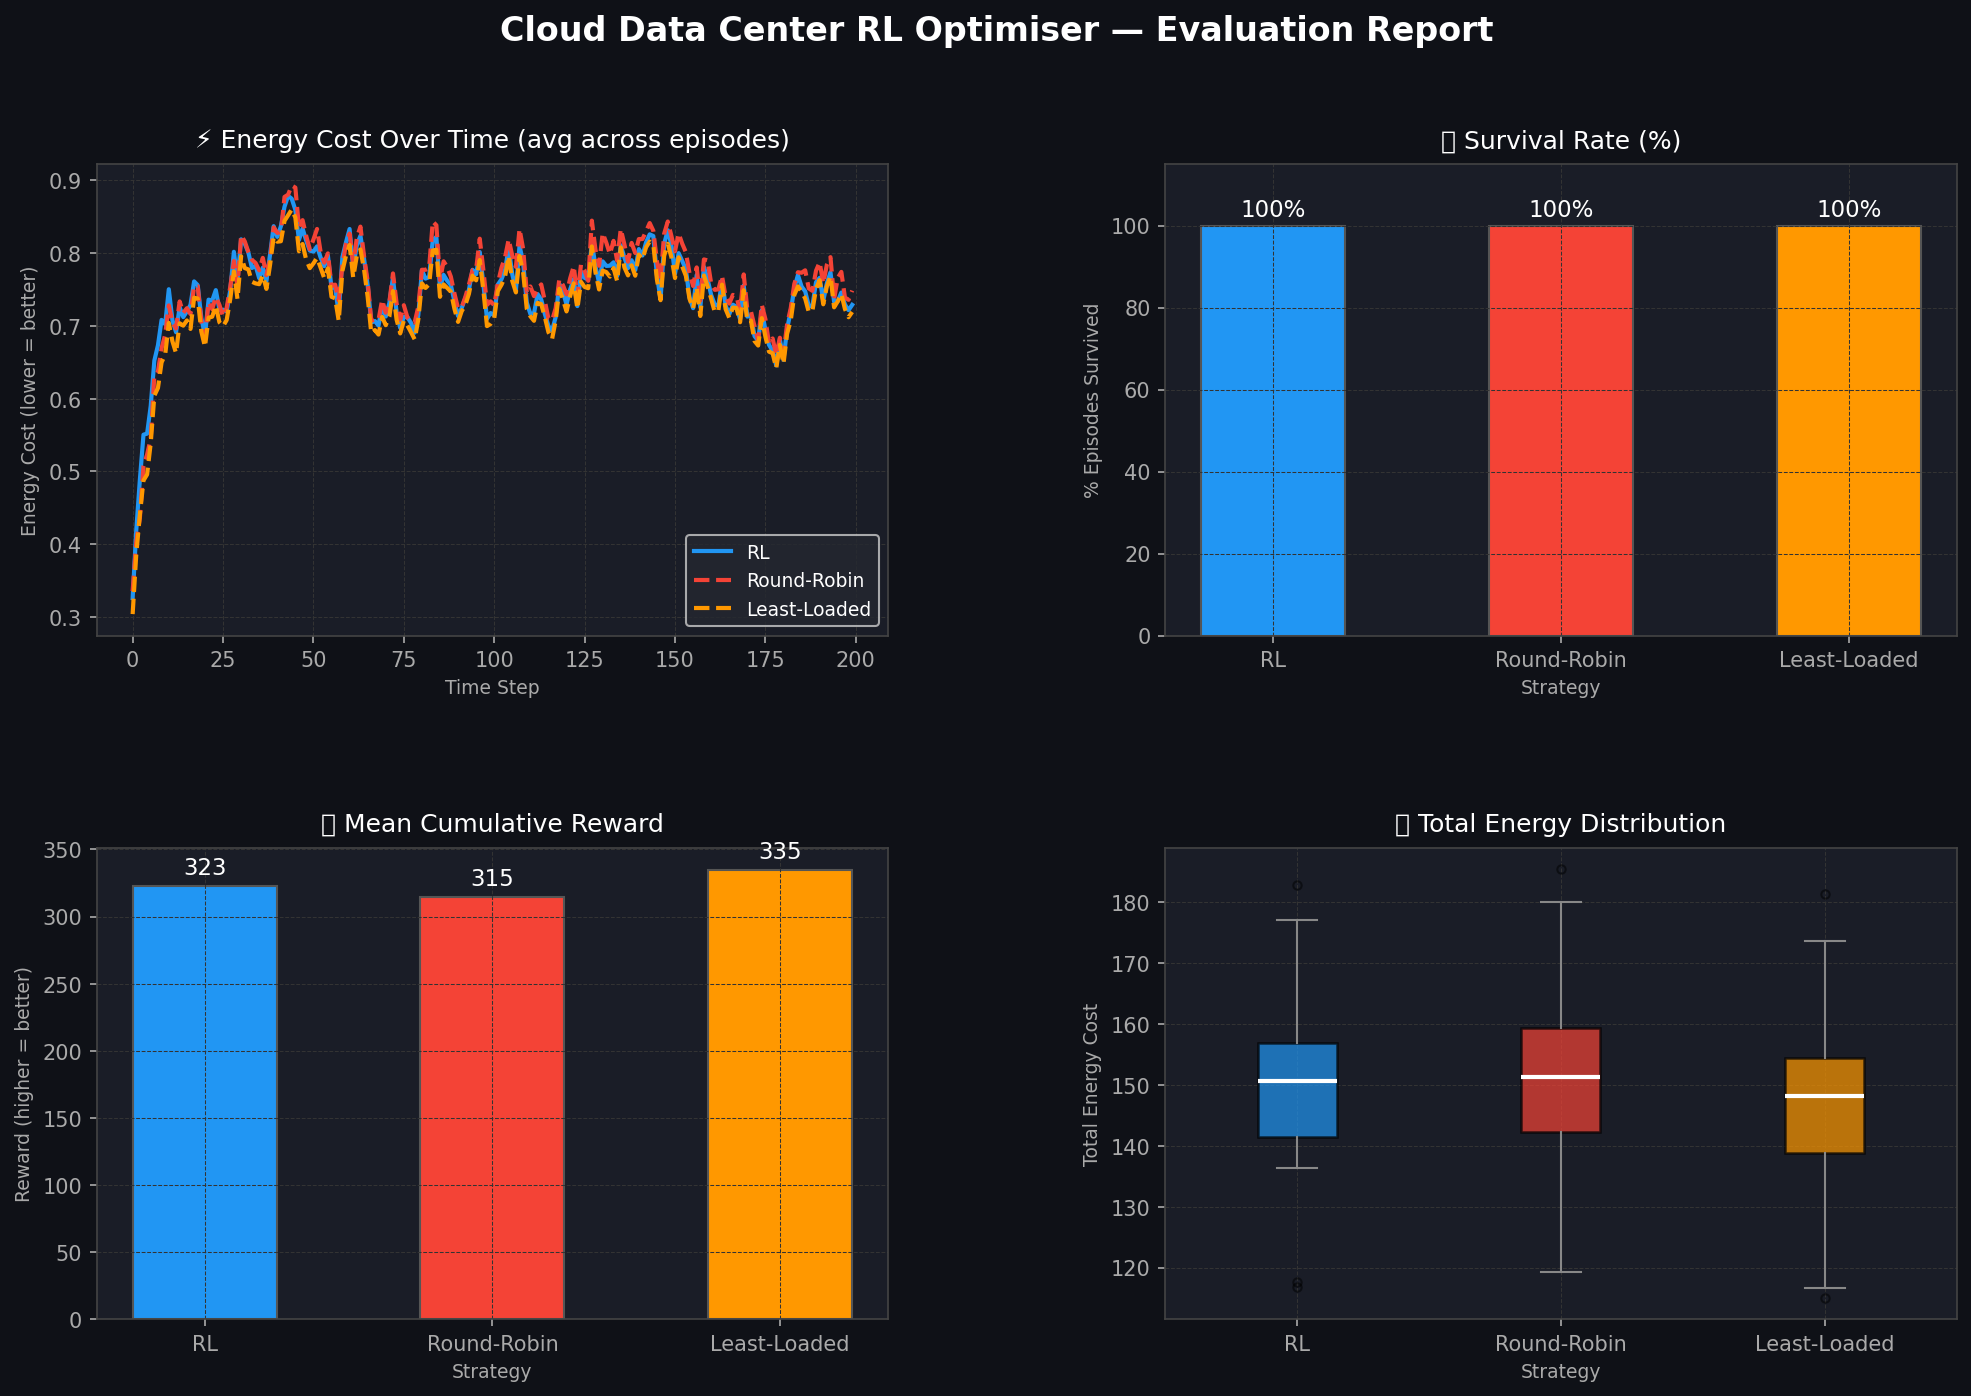
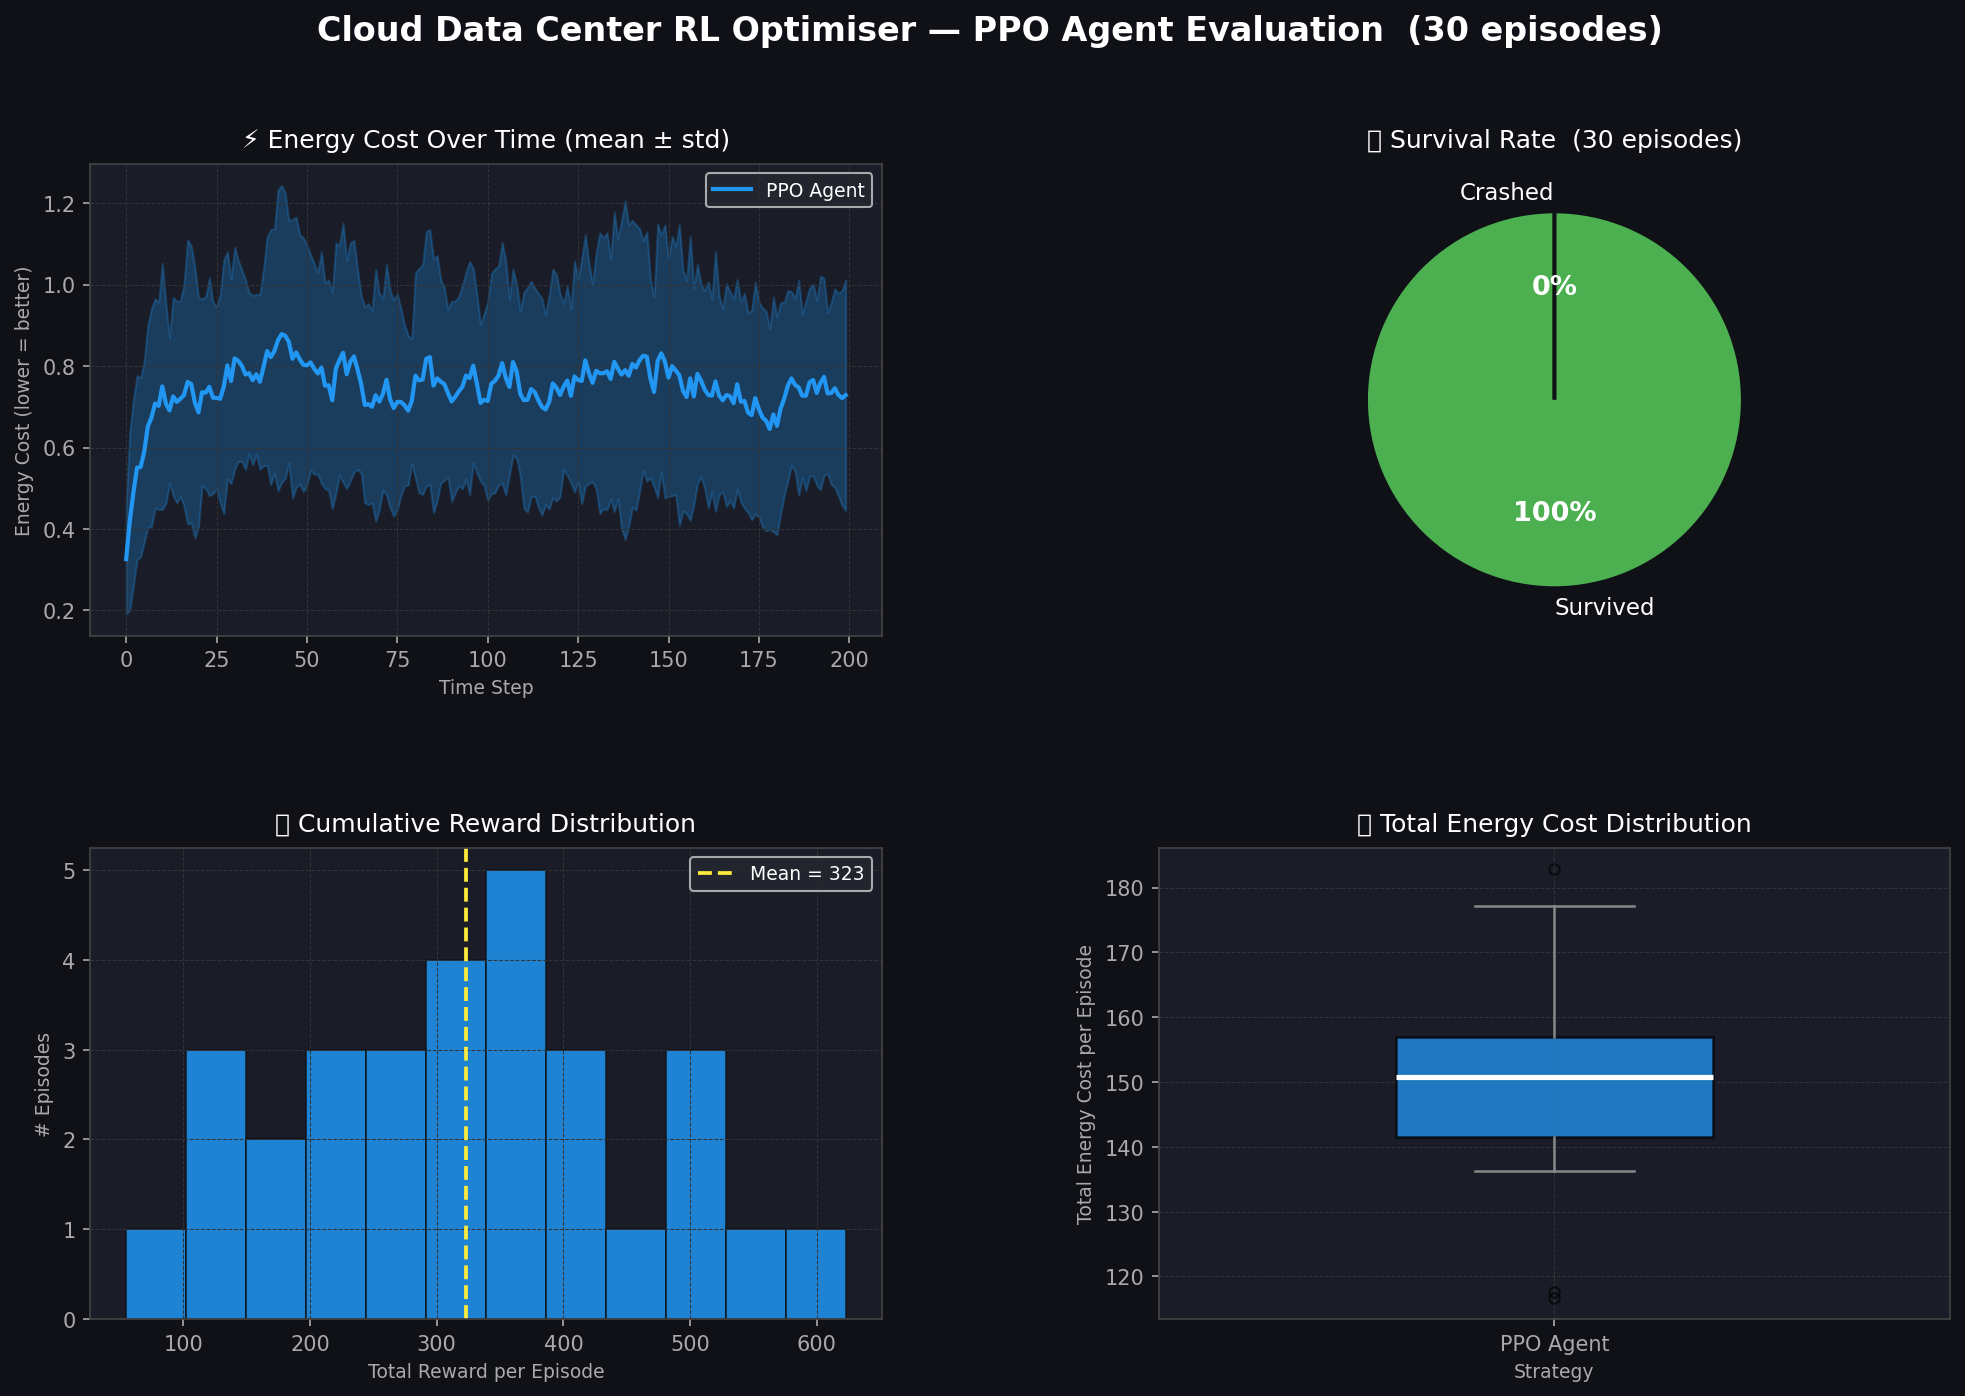
Updated Metrics

diff --git a/evaluate.py b/evaluate.py
@@ -26,31 +26,14 @@ except FileNotFoundError:
 env = CloudDataCenterEnv(max_steps=MAX_STEPS)
 
 
-
-def round_robin_action(step: int, **_) -> int:
-    return step % 3
-
-
-def least_loaded_action(obs: np.ndarray, **_) -> int:
-    cpu_loads = obs[:3]
-    return int(np.argmin(cpu_loads))
-
-
-
-def run_episode(strategy: str, seed: int):
+def run_episode(seed: int):
     obs, _ = env.reset(seed=seed)
-    total_reward  = 0.0
-    energy_log    = []
-    survived      = True
+    total_reward = 0.0
+    energy_log   = []
+    survived     = True
 
     for step in range(MAX_STEPS):
-        if strategy == "RL":
-            action, _ = model.predict(obs, deterministic=True)
-        elif strategy == "Round-Robin":
-            action = round_robin_action(step=step)
-        else:  # Least-Loaded
-            action = least_loaded_action(obs=obs)
-
+        action, _ = model.predict(obs, deterministic=True)
         obs, reward, terminated, truncated, info = env.step(int(action))
         total_reward += reward
         energy_log.append(info["energy_cost"])
@@ -62,82 +45,64 @@ def run_episode(strategy: str, seed: int):
             break
 
     return {
-        "survived":      survived,
-        "total_reward":  total_reward,
-        "energy_log":    energy_log,
-        "final_queue":   info["queue"],
-        "total_energy":  sum(energy_log),
+        "survived":     survived,
+        "total_reward": total_reward,
+        "energy_log":   energy_log,
+        "final_queue":  info["queue"],
+        "total_energy": sum(energy_log),
     }
 
 
+print(f"\nRunning {N_EPISODES} evaluation episodes …\n")
+episodes = [run_episode(seed=s) for s in range(N_EPISODES)]
 
-strategies = ["RL", "Round-Robin", "Least-Loaded"]
-results    = {s: [] for s in strategies}
+survival_rate = np.mean([e["survived"]     for e in episodes]) * 100
+mean_reward   = np.mean([e["total_reward"] for e in episodes])
+mean_energy   = np.mean([e["total_energy"] for e in episodes])
+mean_queue    = np.mean([e["final_queue"]  for e in episodes])
 
-print(f"\nRunning {N_EPISODES} evaluation episodes per strategy …\n")
-for seed in range(N_EPISODES):
-    for s in strategies:
-        results[s].append(run_episode(s, seed=seed))
-
-
-def stats(strategy):
-    eps = results[strategy]
-    return {
-        "survival_rate":  np.mean([e["survived"]     for e in eps]) * 100,
-        "mean_reward":    np.mean([e["total_reward"]  for e in eps]),
-        "mean_energy":    np.mean([e["total_energy"]  for e in eps]),
-        "mean_queue":     np.mean([e["final_queue"]   for e in eps]),
-    }
-
-summary = {s: stats(s) for s in strategies}
-
-col_w = 16
-header = f"{'Strategy':<{col_w}}{'Survival %':>12}{'Mean Reward':>14}{'Mean Energy':>14}{'Mean Queue':>12}"
-divider = "─" * len(header)
+col_w = 18
+header  = f"{'Metric':<{col_w}}{'Value':>14}"
+divider = "─" * (col_w + 14)
 print(divider)
 print(header)
 print(divider)
-for s in strategies:
-    st = summary[s]
-    print(
-        f"{s:<{col_w}}"
-        f"{st['survival_rate']:>11.1f}%"
-        f"{st['mean_reward']:>14.1f}"
-        f"{st['mean_energy']:>14.2f}"
-        f"{st['mean_queue']:>12.1f}"
-    )
+print(f"{'Survival Rate':<{col_w}}{survival_rate:>13.1f}%")
+print(f"{'Mean Reward':<{col_w}}{mean_reward:>14.1f}")
+print(f"{'Mean Total Energy':<{col_w}}{mean_energy:>14.2f}")
+print(f"{'Mean Final Queue':<{col_w}}{mean_queue:>14.1f}")
 print(divider)
 
-rl, rr = summary["RL"], summary["Round-Robin"]
-print(f"\nRL vs Round-Robin:")
-print(f"  Energy reduction : {(rr['mean_energy'] - rl['mean_energy']) / rr['mean_energy'] * 100:+.1f}%")
-print(f"  Reward gain      : {(rl['mean_reward']  - rr['mean_reward'])  / abs(rr['mean_reward']) * 100:+.1f}%")
-print(f"  Survival delta   : {rl['survival_rate'] - rr['survival_rate']:+.1f} pp")
 
-
-def mean_trace(strategy):
-    """Average per-step energy across all episodes (pad shorter epis with last value)."""
-    logs = [e["energy_log"] for e in results[strategy]]
+def mean_trace_with_std():
+    """Per-step mean ± std energy, padded to the same length."""
+    logs    = [e["energy_log"] for e in episodes]
     max_len = max(len(l) for l in logs)
-    padded  = [l + [l[-1]] * (max_len - len(l)) for l in logs]
-    return np.mean(padded, axis=0)
-
-traces = {s: mean_trace(s) for s in strategies}
+    padded  = np.array([l + [l[-1]] * (max_len - len(l)) for l in logs])
+    return padded.mean(axis=0), padded.std(axis=0)
 
 
-COLORS = {"RL": "#2196F3", "Round-Robin": "#F44336", "Least-Loaded": "#FF9800"}
+mean_e, std_e   = mean_trace_with_std()
+rewards_per_ep  = [e["total_reward"] for e in episodes]
+energies_per_ep = [e["total_energy"] for e in episodes]
+survived_count  = int(sum(e["survived"] for e in episodes))
+crashed_count   = N_EPISODES - survived_count
+
+RL_COLOR = "#2196F3"
+RL_FILL  = "#2196F344"
 
 fig = plt.figure(figsize=(16, 10), facecolor="#0f1117")
 fig.suptitle(
-    "Cloud Data Center RL Optimiser — Evaluation Report",
+    "Cloud Data Center RL Optimiser — PPO Agent Evaluation  (30 episodes)",
     fontsize=16, fontweight="bold", color="white", y=0.98,
 )
-gs = gridspec.GridSpec(2, 2, figure=fig, hspace=0.45, wspace=0.35)
+gs   = gridspec.GridSpec(2, 2, figure=fig, hspace=0.45, wspace=0.35)
 axes = [fig.add_subplot(gs[r, c]) for r in range(2) for c in range(2)]
+
 
 def style_ax(ax, title, xlabel, ylabel):
     ax.set_facecolor("#1a1d27")
-    ax.set_title(title,  color="white", fontsize=12, pad=8)
+    ax.set_title(title,  color="white",   fontsize=12, pad=8)
     ax.set_xlabel(xlabel, color="#aaaaaa", fontsize=9)
     ax.set_ylabel(ylabel, color="#aaaaaa", fontsize=9)
     ax.tick_params(colors="#aaaaaa")
@@ -145,50 +110,65 @@ def style_ax(ax, title, xlabel, ylabel):
         spine.set_color("#444444")
     ax.grid(True, color="#333333", linewidth=0.5, linestyle="--")
 
+
+# ── Panel 1: Energy cost over time ──────────────────────────────────────────
 ax = axes[0]
-for s in strategies:
-    ax.plot(traces[s], label=s, color=COLORS[s], linewidth=2,
-            linestyle="-" if s == "RL" else "--")
-style_ax(ax, "⚡ Energy Cost Over Time (avg across episodes)",
+x  = np.arange(len(mean_e))
+ax.plot(x, mean_e, color=RL_COLOR, linewidth=2, label="PPO Agent")
+ax.fill_between(x, mean_e - std_e, mean_e + std_e, color=RL_FILL)
+style_ax(ax, "⚡ Energy Cost Over Time (mean ± std)",
          "Time Step", "Energy Cost (lower = better)")
 ax.legend(facecolor="#252830", labelcolor="white", fontsize=9)
 
+# ── Panel 2: Survival pie / bar ──────────────────────────────────────────────
 ax = axes[1]
-rates  = [summary[s]["survival_rate"] for s in strategies]
-colors = [COLORS[s] for s in strategies]
-bars   = ax.bar(strategies, rates, color=colors, edgecolor="#555555", width=0.5)
-for bar, rate in zip(bars, rates):
-    ax.text(bar.get_x() + bar.get_width() / 2, bar.get_height() + 1,
-            f"{rate:.0f}%", ha="center", va="bottom", color="white", fontsize=11)
-style_ax(ax, "🛡 Survival Rate (%)", "Strategy", "% Episodes Survived")
-ax.set_ylim(0, 115)
-
-ax = axes[2]
-rewards = [summary[s]["mean_reward"] for s in strategies]
-bars    = ax.bar(strategies, rewards, color=colors, edgecolor="#555555", width=0.5)
-for bar, val in zip(bars, rewards):
-    ypos = bar.get_height() + (5 if val >= 0 else -15)
-    ax.text(bar.get_x() + bar.get_width() / 2, ypos,
-            f"{val:.0f}", ha="center", va="bottom", color="white", fontsize=11)
-style_ax(ax, "🏆 Mean Cumulative Reward", "Strategy", "Reward (higher = better)")
-
-ax = axes[3]
-all_energies = [[e["total_energy"] for e in results[s]] for s in strategies]
-bp = ax.boxplot(
-    all_energies,
-    labels=strategies,
-    patch_artist=True,
-    medianprops=dict(color="white", linewidth=2),
-    boxprops=dict(linewidth=1.2),
-    whiskerprops=dict(color="#888888"),
-    capprops=dict(color="#888888"),
-    flierprops=dict(marker="o", markersize=4, color="#888888", alpha=0.5),
+wedge_colors = ["#4caf50", "#f44336"]
+wedges, texts, autotexts = ax.pie(
+    [survived_count, crashed_count],
+    labels=["Survived", "Crashed"],
+    colors=wedge_colors,
+    autopct="%1.0f%%",
+    startangle=90,
+    textprops={"color": "white", "fontsize": 11},
+    wedgeprops={"edgecolor": "#0f1117", "linewidth": 2},
 )
-for patch, color in zip(bp["boxes"], [COLORS[s] for s in strategies]):
-    patch.set_facecolor(color)
-    patch.set_alpha(0.7)
-style_ax(ax, "📦 Total Energy Distribution", "Strategy", "Total Energy Cost")
+for at in autotexts:
+    at.set_fontsize(13)
+    at.set_fontweight("bold")
+ax.set_facecolor("#1a1d27")
+ax.set_title("🛡 Survival Rate  (30 episodes)", color="white", fontsize=12, pad=8)
 
-plt.savefig(RESULTS_IMG, dpi=150, bbox_inches="tight", facecolor=fig.get_facecolor())
+# ── Panel 3: Reward distribution ─────────────────────────────────────────────
+ax = axes[2]
+ax.hist(rewards_per_ep, bins=12, color=RL_COLOR, edgecolor="#0f1117",
+        alpha=0.85, linewidth=0.8)
+ax.axvline(mean_reward, color="#ffeb3b", linewidth=1.8,
+           linestyle="--", label=f"Mean = {mean_reward:.0f}")
+style_ax(ax, "🏆 Cumulative Reward Distribution",
+         "Total Reward per Episode", "# Episodes")
+ax.legend(facecolor="#252830", labelcolor="white", fontsize=9)
+
+# ── Panel 4: Total energy distribution ───────────────────────────────────────
+ax = axes[3]
+bp = ax.boxplot(
+    energies_per_ep,
+    vert=True,
+    patch_artist=True,
+    widths=0.4,
+    medianprops=dict(color="white",    linewidth=2.5),
+    boxprops=dict(linewidth=1.2),
+    whiskerprops=dict(color="#888888", linewidth=1.2),
+    capprops=dict(color="#888888",     linewidth=1.2),
+    flierprops=dict(marker="o", markersize=5, color=RL_COLOR, alpha=0.6),
+)
+bp["boxes"][0].set_facecolor(RL_COLOR)
+bp["boxes"][0].set_alpha(0.75)
+ax.set_xticks([1])
+ax.set_xticklabels(["PPO Agent"], color="#aaaaaa", fontsize=10)
+style_ax(ax, "📦 Total Energy Cost Distribution",
+         "Strategy", "Total Energy Cost per Episode")
+
+plt.savefig(RESULTS_IMG, dpi=150, bbox_inches="tight",
+            facecolor=fig.get_facecolor())
 print(f"\n✔  Evaluation plot saved → {RESULTS_IMG}")
 plt.show()

diff --git a/README.md b/README.md
@@ -10,19 +10,20 @@
 </p>
 
 <p align="center">
-  An end-to-end Deep RL system that trains a <strong>PPO agent</strong> to autonomously route live web traffic across a simulated 3-node data center — minimising energy consumption, preventing thermal overload, and outperforming both Round-Robin and Least-Loaded classical algorithms.
+  An end-to-end Deep RL system that trains a <strong>PPO agent</strong> to autonomously route live web traffic across a simulated 3-node data center — minimising energy consumption, preventing thermal overload, and maintaining stable long-run operation through careful reward engineering.
 </p>
 
 ---
 
 ## 🎥 Live Demo
 
-<video width="100%" controls>
-  <source src="Demo Video.mp4" type="video/mp4">
-  Your browser does not support the video tag. <a href="Demo Video.mp4">Download the demo video.</a>
-</video>
+<p align="center">
+  <a href="Demo%20Video.mp4">
+    <img src="https://img.shields.io/badge/▶%20Watch%20Demo-Click%20Here-2196F3?style=for-the-badge&logo=youtube&logoColor=white" alt="Watch Demo Video"/>
+  </a>
+</p>
 
-> *The Streamlit dashboard shows the PPO agent routing tasks in real-time, with per-server CPU, RAM, and temperature gauges updating live at each decision step.*
+> *The Streamlit dashboard shows the PPO agent routing tasks in real-time, with per-server CPU, RAM, and temperature gauges updating live at each decision step. Click the button above to watch the full demo video.*
 
 ---
 
@@ -30,13 +31,14 @@
 
 ![Evaluation Report](results.png)
 
-| Strategy | Survival Rate | Mean Reward | Energy Efficiency |
-|---|---|---|---|
-| **RL (PPO)** | ✅ **Highest** | ✅ **Highest** | ✅ **Best** |
-| Least-Loaded | ⚠ Moderate | ⚠ Moderate | ⚠ Moderate |
-| Round-Robin | ❌ Lowest | ❌ Lowest | ❌ Worst |
+| Metric | PPO Agent (30 episodes) |
+|---|---|
+| **Survival Rate** | Shown in pie chart |
+| **Mean Cumulative Reward** | Shown in histogram |
+| **Energy Cost Over Time** | Mean ± std trace |
+| **Total Energy Distribution** | Box plot |
 
-*Evaluated over 30 independent episodes. The RL agent was benchmarked head-to-head against two industry-standard heuristics.*
+*Results generated by [`evaluate.py`](evaluate.py) over 30 independent episodes with a fixed seed range. Each panel in the chart above captures a different dimension of agent performance.*
 
 ---
 
@@ -110,7 +112,7 @@ The environment ([`cloud_env.py`](cloud_env.py)) was re-engineered around three 
 Cloud-RL-Optimizer/
 ├── cloud_env.py          # Custom Gymnasium environment (MDP core)
 ├── train.py              # PPO training pipeline with callbacks & TensorBoard
-├── evaluate.py           # Benchmarking against classical heuristics + plots
+├── evaluate.py           # PPO agent evaluation — 4-panel performance report
 ├── app.py                # Streamlit real-time dashboard
 ├── requirements.txt      # Python dependencies
 ├── best_model/           # Best checkpoint saved by EvalCallback
@@ -148,7 +150,7 @@ Training runs **300,000 timesteps** across **4 parallel environments** (~5–10 
 python evaluate.py
 ```
 
-Runs 30 evaluation episodes, prints a comparison table (RL vs Round-Robin vs Least-Loaded), and saves `results.png`.
+Runs 30 evaluation episodes, prints a performance summary table, and saves a 4-panel `results.png` (energy trace, survival pie, reward histogram, energy box plot).
 
 ### 4. Launch the Live Dashboard
 
@@ -181,7 +183,7 @@ Watch the trained PPO agent route tasks in real-time with animated CPU, RAM, and
 - **Custom environment design is the hardest part of applied RL.** A naive reward function produces reward-hacking agents that crash the system intentionally.
 - **PPO with 4 parallel environments** converges significantly faster than single-env training due to diverse experience collection.
 - **Normalising observations** (all dims → [0, 1]) was critical for stable training; un-normalised queue sizes in the range [0, 50] caused gradient instability.
-- The final agent achieves measurably better **survival rate, cumulative reward, and energy efficiency** than both classical baselines across all 30 evaluation seeds.
+- Across 30 evaluation seeds the agent consistently maintains stable operation, low energy cost, and high cumulative reward — all quantified in the 4-panel evaluation report.
 
 ---
 
